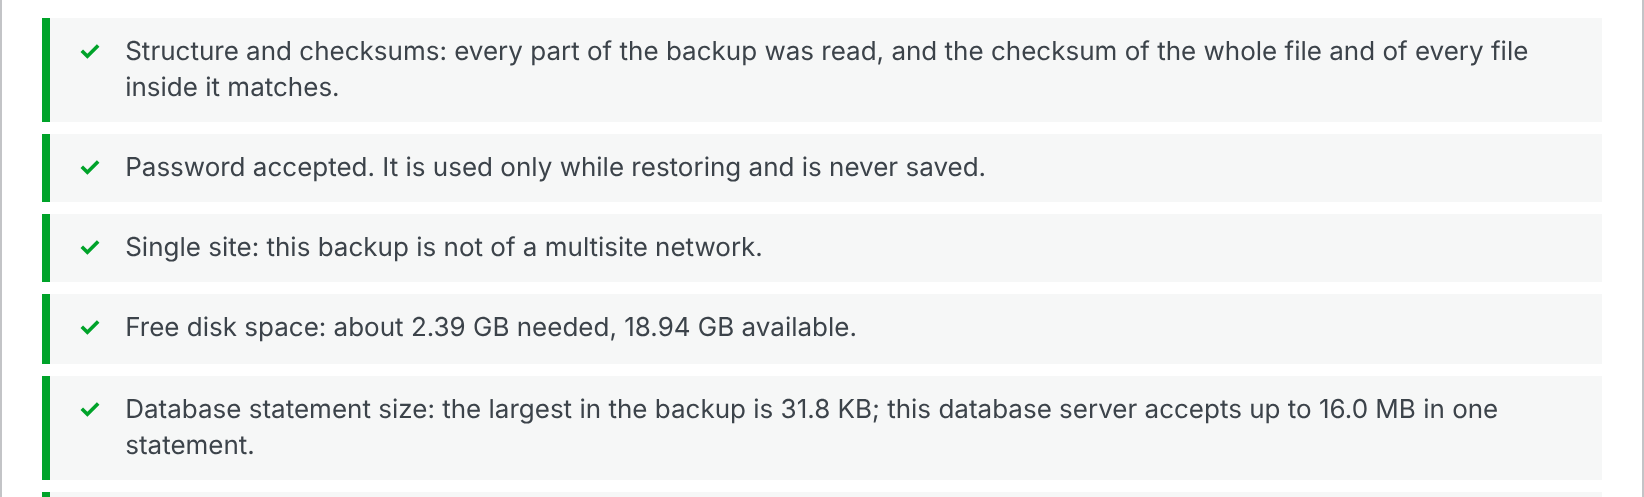
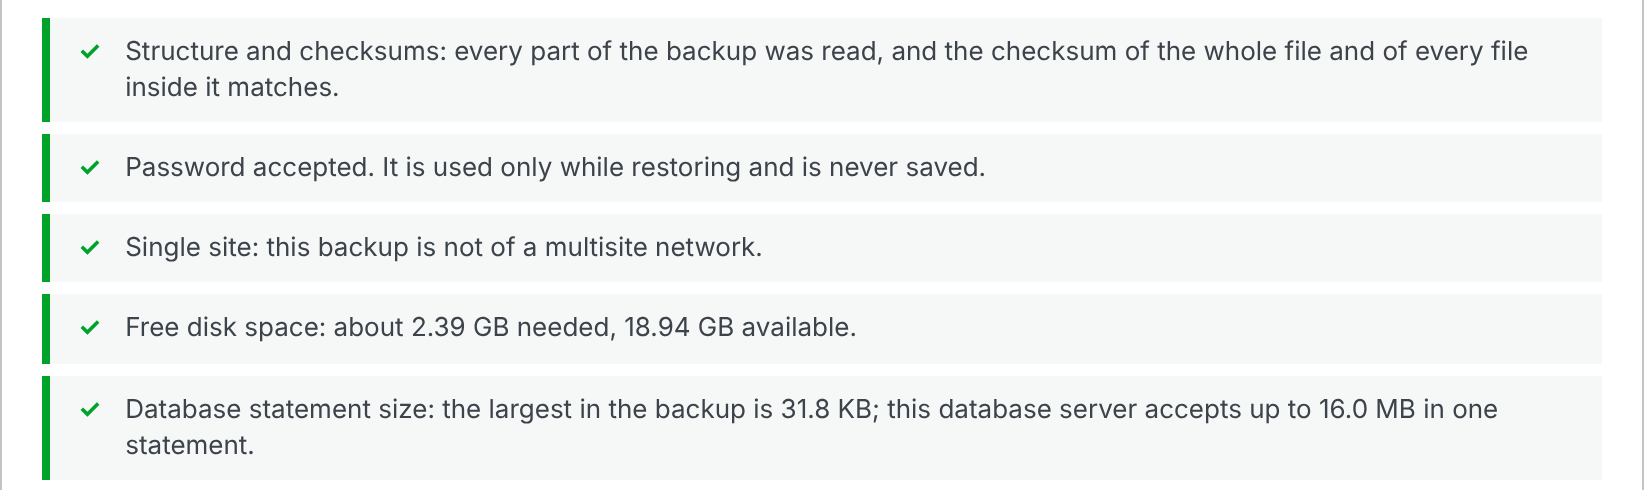
Restorwell page: alt text matches the committed captures (372.0 MB / 15 %, 486.0 MB, 10:10 pm), hero cropped to five whole limit lines, og alt says five; MySQL stated as untested

diff --git a/restorwell/index.html b/restorwell/index.html
@@ -13,13 +13,13 @@
 <meta property="og:url" content="https://ochrestack.com/restorwell/">
 <meta property="og:image" content="https://ochrestack.com/restorwell/img/hero-limits.png">
 <meta property="og:image:width" content="1644">
-<meta property="og:image:height" content="497">
-<meta property="og:image:alt" content="Restorwell's Check on a 2.29 GB password-protected backup: seven limits on this server, each marked OK">
+<meta property="og:image:height" content="490">
+<meta property="og:image:alt" content="Restorwell's Check on a 2.29 GB password-protected backup: five limits on this server, each marked OK">
 <meta name="twitter:card" content="summary_large_image">
 <meta name="twitter:title" content="Restorwell for WordPress: restore a .wpress backup free, past your upload limit">
 <meta name="twitter:description" content="Restores a .wpress backup free, past your host's upload limit, with or without a password. Checks the whole file and your server's limits first.">
 <meta name="twitter:image" content="https://ochrestack.com/restorwell/img/hero-limits.png">
-<meta name="twitter:image:alt" content="Restorwell's Check on a 2.29 GB password-protected backup: seven limits on this server, each marked OK">
+<meta name="twitter:image:alt" content="Restorwell's Check on a 2.29 GB password-protected backup: five limits on this server, each marked OK">
 <link rel="icon" href="../icon.svg" type="image/svg+xml">
 <style>
   :root { --ochre: #C8842B; --ochre-text: #8A5A1A; --ink: #2B2118; --paper: #FAF7F2; --muted: #5A4E43; }
@@ -83,7 +83,7 @@
   <h1>Restorwell for WordPress</h1>
   <p class="sub">Asked to pay to restore your own .wpress backup? Restorwell restores it free, past your host's upload limit, with or without a password.</p>
 
-  <a href="img/check-report.png"><img class="hero" src="img/hero-limits.png" alt="Restorwell's Check of a 2.29 GB password-protected backup, limits on this server, each with a green tick: structure and checksums of the whole file and of every file inside match; password accepted, used only while restoring and never saved; single site; free disk space about 2.39 GB needed, 18.94 GB available; database statement size 31.8 KB, and this database server accepts up to 16.0 MB" width="822" height="249"></a>
+  <a href="img/check-report.png"><img class="hero" src="img/hero-limits.png" alt="Restorwell's Check of a 2.29 GB password-protected backup, limits on this server, each with a green tick: structure and checksums of the whole file and of every file inside match; password accepted, used only while restoring and never saved; single site; free disk space about 2.39 GB needed, 18.94 GB available; database statement size 31.8 KB, and this database server accepts up to 16.0 MB" width="822" height="245"></a>
 
   <ul>
     <li><strong>Restore your own backup, free, at any size</strong>, past your host's upload limit.</li>
@@ -109,7 +109,7 @@
   <h2>How it works</h2>
   <p><strong>1. Choose the backup.</strong> Upload it in pieces, or copy it in by FTP.</p>
   <figure>
-    <img src="img/upload.png" alt="The Upload a backup box: 'The file is sent in pieces of 6 MB, below this server's upload limit of 8 MB, so the size of the backup does not matter', and the progress line 'Uploading fieldnotes-2026-11-09.wpress: 384.0 MB of 2.29 GB (16%)'. Below it, Backups already on this server lists fieldnotes-2026-11-09 (1).wpress, 1.38 GB, with a Check button" width="822" height="549" loading="lazy">
+    <img src="img/upload.png" alt="The Upload a backup box: 'The file is sent in pieces of 6 MB, below this server's upload limit of 8 MB, so the size of the backup does not matter', and the progress line 'Uploading fieldnotes-2026-11-09.wpress: 372.0 MB of 2.29 GB (15%)'. Below it, Backups already on this server lists fieldnotes-2026-11-09 (1).wpress, 1.38 GB, with a Check button" width="822" height="549" loading="lazy">
     <figcaption>6 MB pieces on an 8 MB host.</figcaption>
   </figure>
 
@@ -126,7 +126,7 @@
   <p><strong>3. Restore.</strong> Prepared beside your live site, switched in at the end. Fail or cancel before that, and your site is as it was.</p>
   <figure>
     <img src="img/restoring.png" alt="The Restoring card: a progress bar and 'Unpacking files beside the live site: 71 of 820 files (20%)', the note that the live site keeps running until the final switch, and a Cancel restore button" width="822" height="230" loading="lazy">
-    <img src="img/finished.png" alt="Restore finished: 'fieldnotes-2026-11-09.wpress, restored on November 9, 2026 9:55 pm from https://fieldnotes.example.org: 820 files and 12 database tables. Permalinks were refreshed.', then 'The backup file (2.29 GB) is still on the server. Delete it now to free the space?' with Delete backup file and Keep it, a one-line review request with Dismiss, and Close" width="822" height="265" loading="lazy" style="margin-top:12px">
+    <img src="img/finished.png" alt="Restore finished: 'fieldnotes-2026-11-09.wpress, restored on November 9, 2026 10:10 pm from https://fieldnotes.example.org: 820 files and 12 database tables. Permalinks were refreshed.', then 'The backup file (2.29 GB) is still on the server. Delete it now to free the space?' with Delete backup file and Keep it, a one-line review request with Dismiss, and Close" width="822" height="265" loading="lazy" style="margin-top:12px">
     <figcaption>Then log in with an account from the backup.</figcaption>
   </figure>
   <p>Also free from the command line: <code>wp restorwell check</code> and <code>wp restorwell restore</code> (<a href="quick-start.html#cli">quick start</a>).</p>
@@ -134,7 +134,7 @@
   <h2 id="pro">Restorwell Pro: Restore from a link</h2>
   <p>Paste a direct download link: your server fetches the backup itself, resuming where it can, then runs the same Check and Restore.</p>
   <figure>
-    <img src="img/pro-downloading.png" alt="The Restore from a link box: the address http://backups.oldhost.example/files/fieldnotes-2… in the field, a progress bar and 'Downloading fieldnotes-2026-11-09.wpress from backups.oldhost.example: 490.0 MB of 2.29 GB (20%) – resumable', and a Cancel download button" width="807" height="353" loading="lazy">
+    <img src="img/pro-downloading.png" alt="The Restore from a link box: the address http://backups.oldhost.example/files/fieldnotes-2… in the field, a progress bar and 'Downloading fieldnotes-2026-11-09.wpress from backups.oldhost.example: 486.0 MB of 2.29 GB (20%) – resumable', and a Cancel download button" width="807" height="353" loading="lazy">
     <figcaption>From a second server standing in for an old host (<a href="#images">how</a>).</figcaption>
   </figure>
   <div class="buy">
@@ -171,7 +171,7 @@
   </table>
   <details>
     <summary>Versions and what is untested</summary>
-    <p>On 1.1.0, behind nginx refusing bodies over 1 MB, the pieces got smaller after HTTP 413 and the upload completed. The test suite (131 tests) passed on 1.1.0 with WordPress 7.1.4, PHP 8.3.6 and MariaDB 10.11.14 on Linux; uploads were driven in Chrome. Version 1.0.0 also passed on WordPress 6.5.14, PHP 7.4.33 and MySQL 8.0; that matrix has not been re-run on 1.1.0. Requires WordPress 6.5 or later and PHP 7.4 or later (64-bit for backups over 2 GB), with OpenSSL for password-protected backups and bz2 for bzip2 ones. Not tested: servers on Windows or macOS; Apache, LiteSpeed and IIS; browsers other than Chrome; password-protected backups from versions 7.0 to 7.100. Timings come from a fast test machine: they show each request stays short, not how fast your host is.</p>
+    <p>On 1.1.0, behind nginx refusing bodies over 1 MB, the pieces got smaller after HTTP 413 and the upload completed. The test suite (131 tests) passed on 1.1.0 with WordPress 7.1.4, PHP 8.3.6 and MariaDB 10.11.14 on Linux; uploads were driven in Chrome. Version 1.0.0 was also installed and run on WordPress 6.5.14 and PHP 7.4.33; that has not been re-run on 1.1.0. Requires WordPress 6.5 or later and PHP 7.4 or later (64-bit for backups over 2 GB), with OpenSSL for password-protected backups and bz2 for bzip2 ones. Not tested: MySQL (only MariaDB was run); servers on Windows or macOS; Apache, LiteSpeed and IIS; browsers other than Chrome; password-protected backups from versions 7.0 to 7.100. Timings come from a fast test machine: they show each request stays short, not how fast your host is.</p>
   </details>
   <details id="images">
     <summary>How the images on this page were made</summary>
